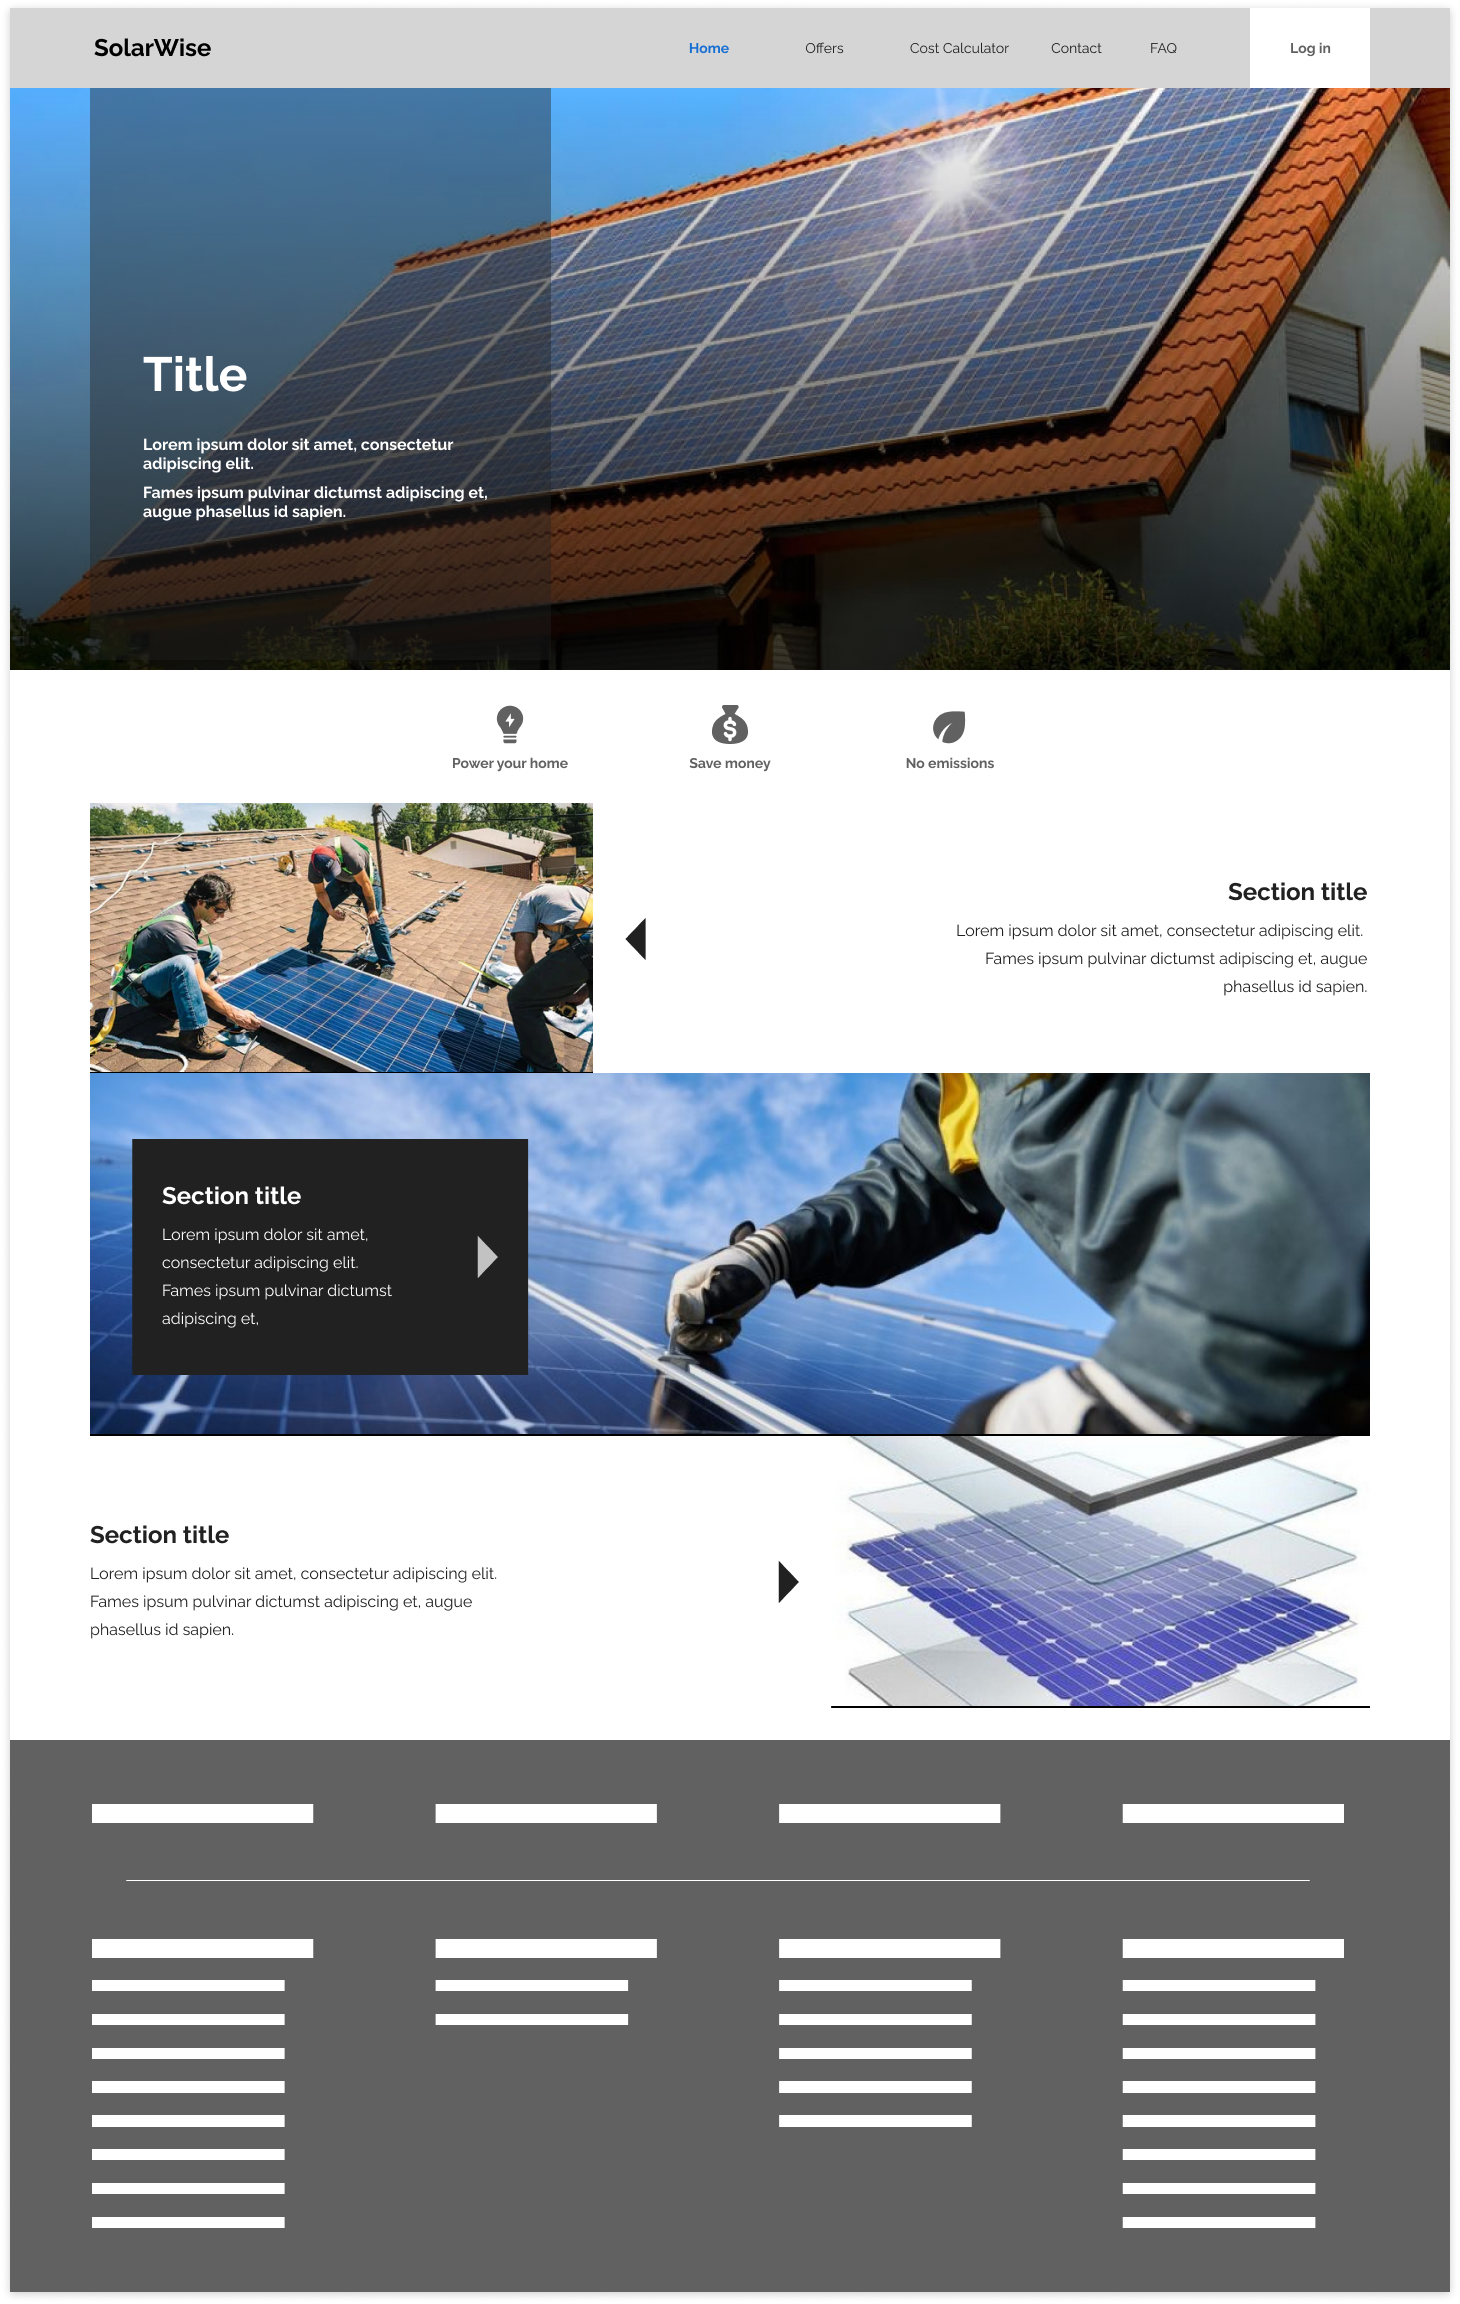
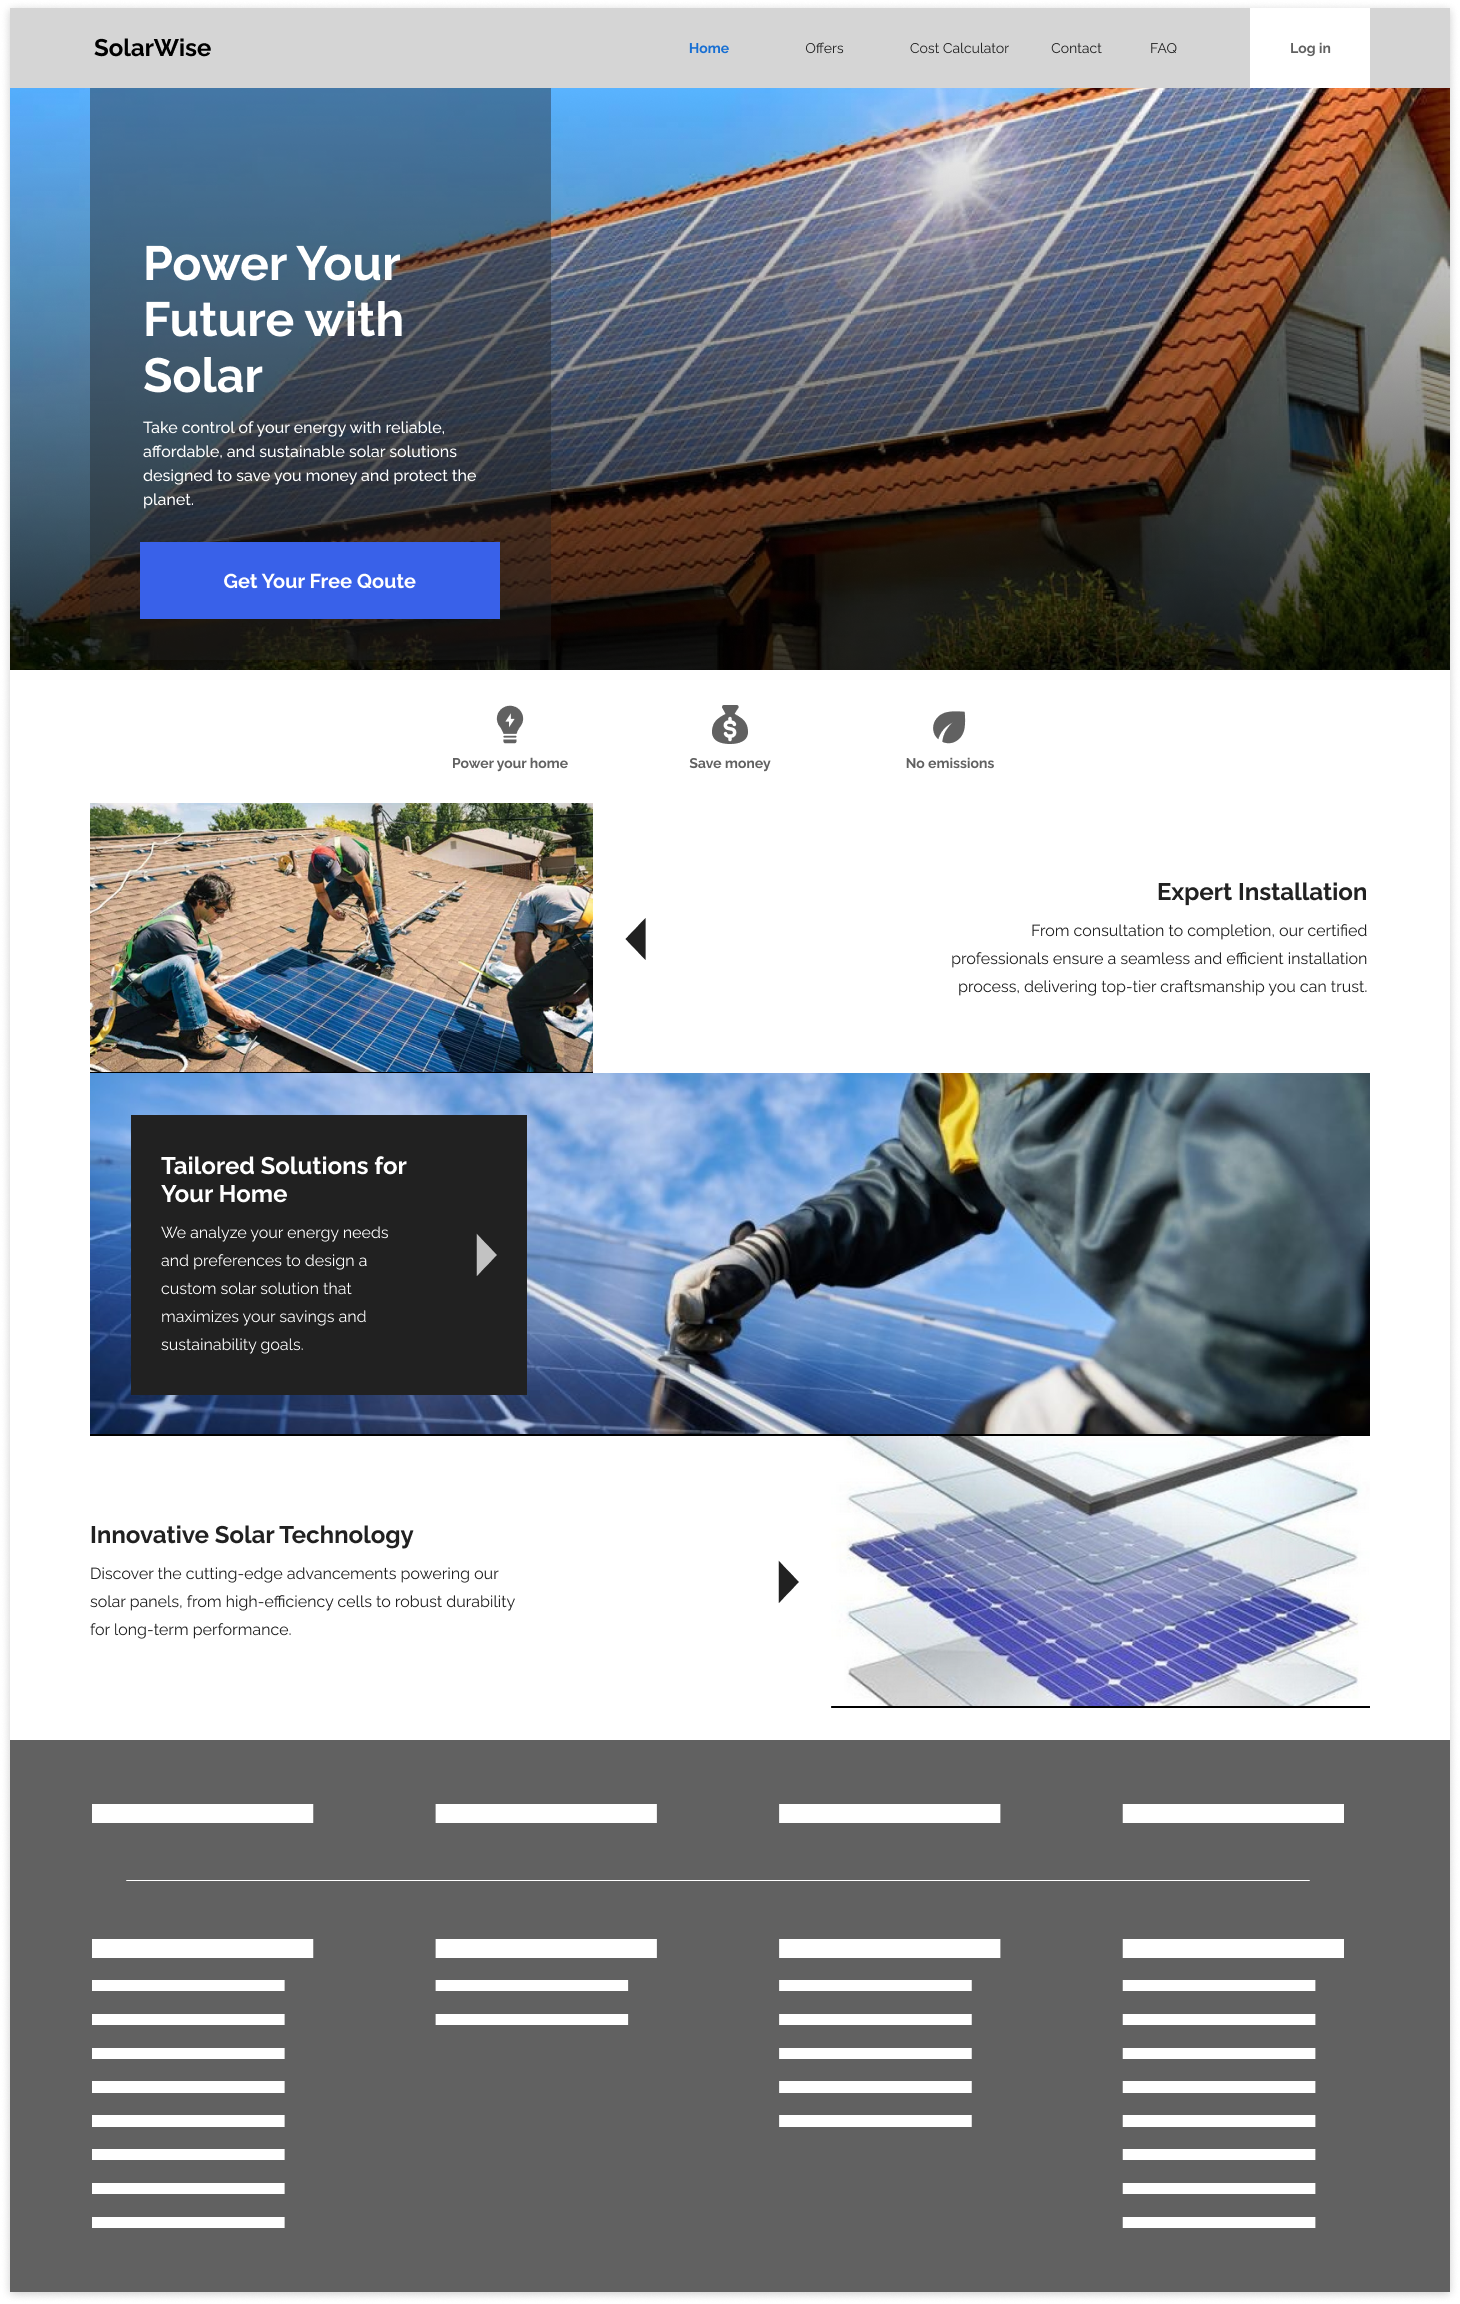
Update high fidelity with real text

diff --git a/README.md b/README.md
@@ -19,7 +19,7 @@
 ### Semester Project
 
 - Link to your production version: [**Production Version**](https://solar-wise-theta.vercel.app/) <!-- Replace with actual URL -->
-- Link to your final report: [**Final Report (TO DO)**](https://elemental-harbor-143.notion.site/SolarWise-12fdaa460b8480e3b6e8d8682f2153b0?pvs=4) <!-- Replace with actual URL -->
+- Link to your final report: [**Final Report**](https://elemental-harbor-143.notion.site/SolarWise-19bdaa460b8480faa332c016be96431c) <!-- Replace with actual URL -->
 <!-- Add more as necessary -->
 
 ### Semester Assignments
